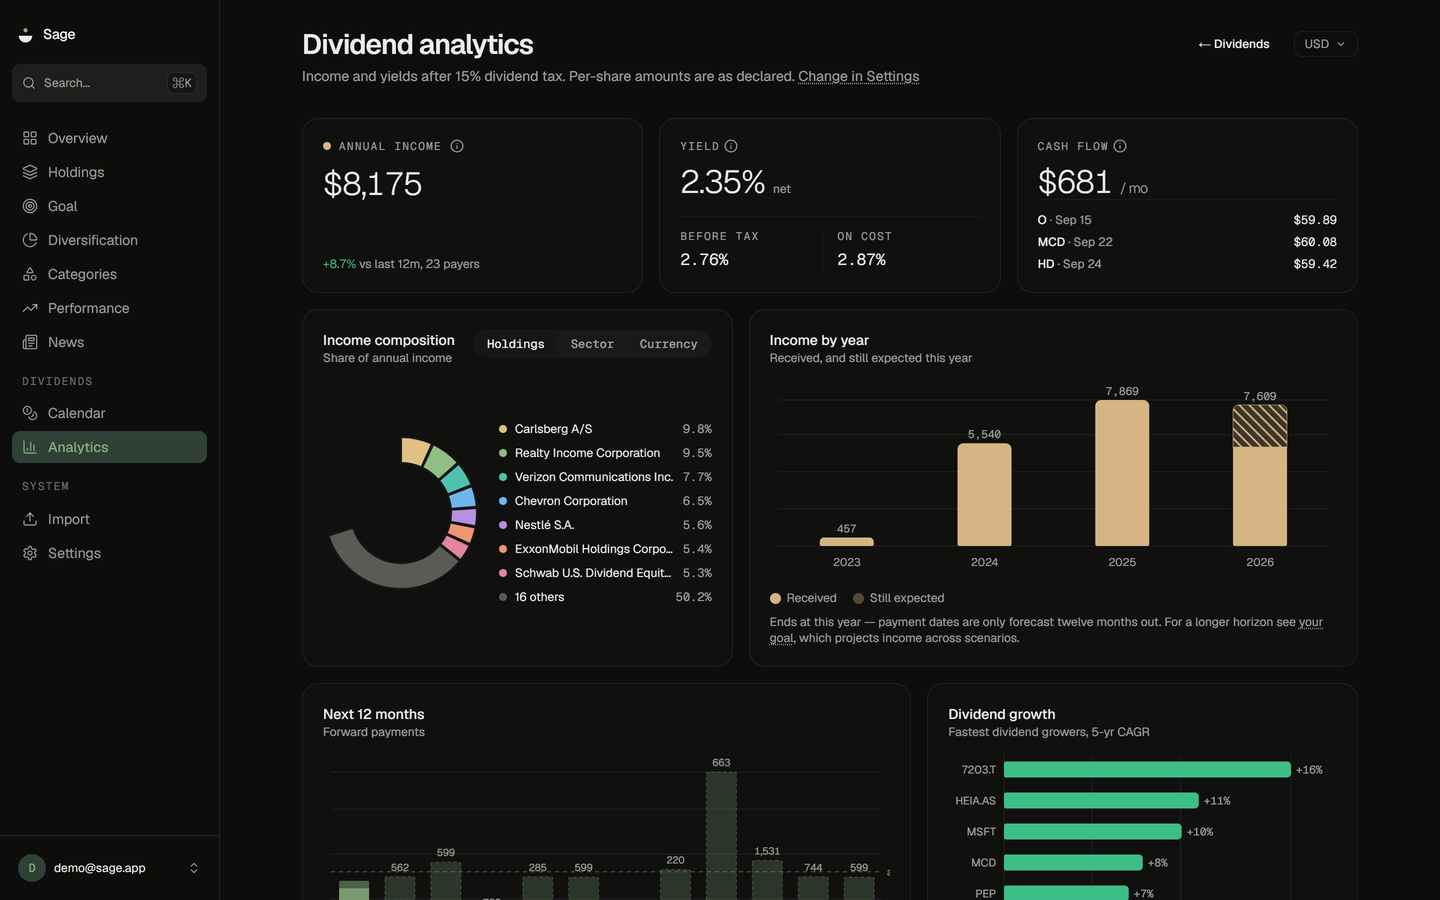
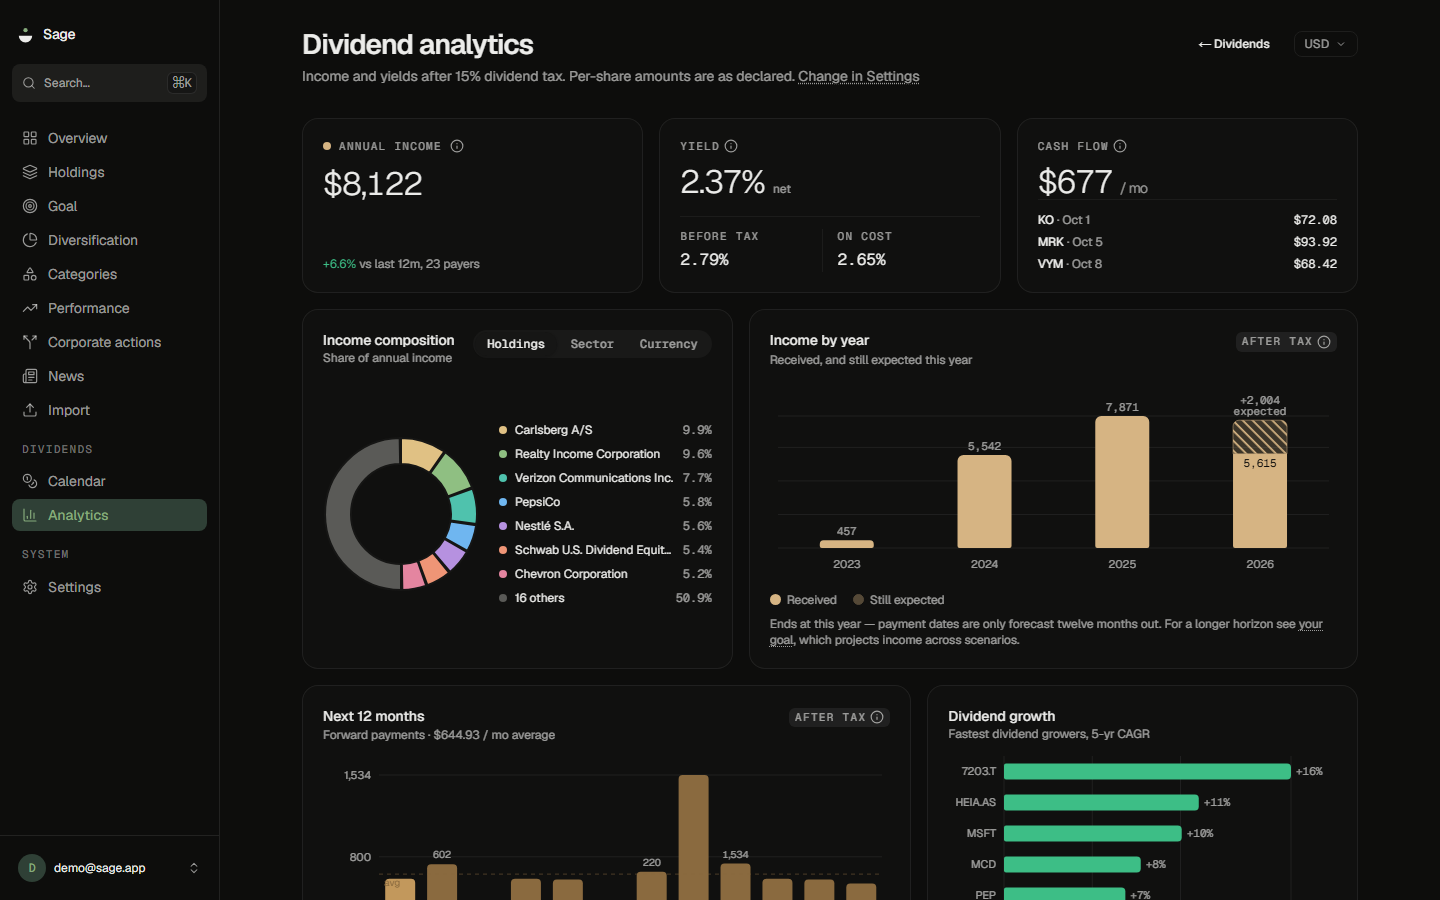
docs: prepare the v1.0.0-beta.1 release
Screenshots, README framing, a changelog and a version that is not 0.0.0.

**All nine screenshots re-shot.** They dated from 2026-08-29 and predated the
gold certainty ramp, the basis chips, the rebuilt Upcoming card and forward
chart, resolved holding names and banded share counts — so the README showed an
app a fresh install would not produce. Captured from the same demo book as
before (23 recognisable dividend payers, no real data) at the same 1440x900 and
375x812, dark theme, logos on.

Three things had to be fixed in that book first, and each was the app being
right rather than the app being broken:

- Its buy prices were invented round numbers, up to 1.6x away from the price
  history Sage had since fetched, so /performance led with a reconciliation
  banner naming HEIA.AS and pushed the risk metrics below the fold. Every buy
  and sell now sits at the stored close for its own trade date, which is what
  an imported book actually looks like. Returns are lower and no longer
  uniformly green; that is more honest, not less.
- Its cached asset profiles predated the region fix, so 23 of 24 had no
  country_iso and "By region" read 95.9% Unknown next to a "By country" that
  resolved fine. Refetched; the three that stay Unknown are two ETFs and an
  index, which genuinely have no single country.
- The TanStack Query devtools button sits in the bottom-right corner in dev and
  had to be hidden alongside Next's own overlay. Hiding `nextjs-portal` alone
[…]

diff --git a/CHANGELOG.md b/CHANGELOG.md
@@ -1,0 +1,101 @@
+# Changelog
+
+Notable changes to Sage. The format follows
+[Keep a Changelog](https://keepachangelog.com/en/1.1.0/) and the versions follow
+[Semantic Versioning](https://semver.org/spec/v2.0.0.html).
+
+Sage was developed in private and its history was rewritten before publication,
+so there is no commit-by-commit record from before this release. The log starts
+here.
+
+## [1.0.0-beta.1] - 2026-09-10
+
+First public release.
+
+### Portfolio and holdings
+
+- One row per position with daily change, total return, weight and yield,
+  sortable in place.
+- Custom holdings for instruments no provider covers, priced by you, so a book
+  with something unlisted in it still adds up.
+- A page per instrument: price history, your position in it, profile,
+  fundamentals, dividend history, news and analyst ratings.
+
+### Dividends
+
+- A calendar showing one year at a time, with received and predicted payments in
+  the same grid. Payment certainty is encoded in three tones - paid, confirmed,
+  estimated - and a date Sage predicted rather than the company declaring is
+  marked separately from an amount Sage forecast.
+- Analytics: forward twelve-month run rate, per-payer and per-month breakdowns,
+  income by year, and dividend growth rates.
+- Positions you have since sold stay in the history, because income you actually
+  received should not disappear because you exited.
+- A total that would span more than one currency renders as a dash rather than a
+  figure that is wrong in every currency you might read it as.
+
+### Performance
+
+- Time-weighted return chained daily over the range you pick, annualized past a
+  year, beside a money-weighted XIRR.
+- Volatility, beta, maximum drawdown, best and worst day, and benchmark lines.
+- A reconciliation banner when stored price history disagrees with your own
+  transactions, naming the holdings and adjusting nothing.
+
+### Diversification and categories
+
+- Weights by sector, country, region, asset class and currency, on market value
+  or on what you paid.
+- An X-Ray toggle that looks through funds and ETFs to their underlying
+  holdings instead of counting each fund as one line.
+- Anything Sage cannot classify goes to an `Unknown` bucket in plain sight
+  rather than being spread across the ones it can.
+
+### Getting your book in
+
+- A forgiving CSV importer: it guesses the columns, shows you the parsed rows
+  before committing, and lists what it could not read with a reason. Reads
+  `$1,241.30`, `1.241,30`, `1 241,30` and `1'241.30` as the same number, and
+  flags ambiguous dates rather than guessing.
+- Broker transaction words are mapped, with anything left over offered as a
+  dropdown rather than a file to go and edit.
+- Re-importing an overlapping file is safe: every row carries a hash and the
+  ones already recorded are recognised as duplicates.
+- A dedicated Snowball Analytics reader, and single-holding entry for a handful
+  of positions.
+
+### Corporate actions
+
+- A read-only audit trail of what Sage did with splits and what it declined to
+  do, printing its own coverage so a cold price store cannot read as confidence.
+
+### Privacy and self-hosting
+
+- Web app, API and Postgres come up together under one `docker compose up`.
+  There is no Sage server.
+- Company logos and news thumbnails are off by default, because both would name
+  what you hold to a third party. With both unset, nothing does.
+- Prices and ECB reference rates are stored in your own database as they arrive,
+  so a provider outage leaves you with the last known values and a notice rather
+  than an empty app.
+- Export your transactions as CSV or everything as JSON at any time, with no
+  provider calls involved.
+- Account recovery from a shell (`sage reset-password`), because Sage sends no
+  email.
+
+### Known limitations
+
+- **Market data is not licensed.** The default price source is an unofficial
+  Yahoo client: broad coverage, no key, and it can break without warning - it
+  did on 2026-08-09. Official providers are supported, but their free tiers are
+  small enough that most setups still fall back.
+  See [`docs/MARKET-DATA.md`](./docs/MARKET-DATA.md).
+- Sage has no tax-residency model. One dividend tax rate applies to every
+  holding.
+- There is no offline cache in the installable phone app, deliberately: stale
+  figures are worse than none in an app whose value is that its numbers are
+  current.
+- Sage records and measures; it does not advise. See
+  [`docs/DISCLAIMER.md`](./docs/DISCLAIMER.md).
+
+[1.0.0-beta.1]: https://github.com/bjarkeef/sage/releases/tag/v1.0.0-beta.1

diff --git a/README.md b/README.md
@@ -8,14 +8,19 @@
 [![License: AGPL-3.0-only](https://img.shields.io/badge/license-AGPL--3.0--only-3d6a4d)](./LICENSE)
 [![Self-hosted: Docker Compose](https://img.shields.io/badge/self--hosted-Docker%20Compose-3d6a4d)](./docs/DEPLOYMENT.md)
 [![PRs welcome](https://img.shields.io/badge/PRs-welcome-3d6a4d)](./CONTRIBUTING.md)
+[![Status: public beta](https://img.shields.io/badge/status-public%20beta-3d6a4d)](./CHANGELOG.md)
 
 Sage is an open-source, self-hostable dividend and investment portfolio
 tracker. You run it on your own machine, so tracking your holdings, your
 dividend income and your performance doesn't mean handing your financial life
 to somebody else's SaaS.
 
-**Status:** active development, Phase 1–2 MVP (portfolio, dividends,
-performance, categories, custom holdings). It's usable and it's not finished.
+**Status:** public beta — `v1.0.0-beta.1`. Portfolio, dividends, performance,
+diversification, categories and custom holdings are all built and in daily use
+on the maintainer's own instance. Beta means the shape is settled and the
+arithmetic is tested, not that nothing will change: read
+[`docs/MARKET-DATA.md`](./docs/MARKET-DATA.md) before you rely on it, because
+the default price source is an unofficial one that can break without warning.
 
 <p align="center">
   <img alt="The Sage overview page: portfolio value, allocation and upcoming dividends" src="docs/assets/shot-overview.png" width="880">
@@ -119,7 +124,7 @@ analyst ratings. A goal page that runs your own assumptions forward and says
 plainly that the result is arithmetic applied to your inputs, not a forecast.
 
 <p align="center">
-  <img alt="An asset page: instrument profile, fundamentals and dividend history" src="docs/assets/shot-asset.png" width="880">
+  <img alt="An asset page: price history and your position in it — cost basis, market value, yield on cost and forward income" src="docs/assets/shot-asset.png" width="880">
 </p>
 
 <p align="center">
